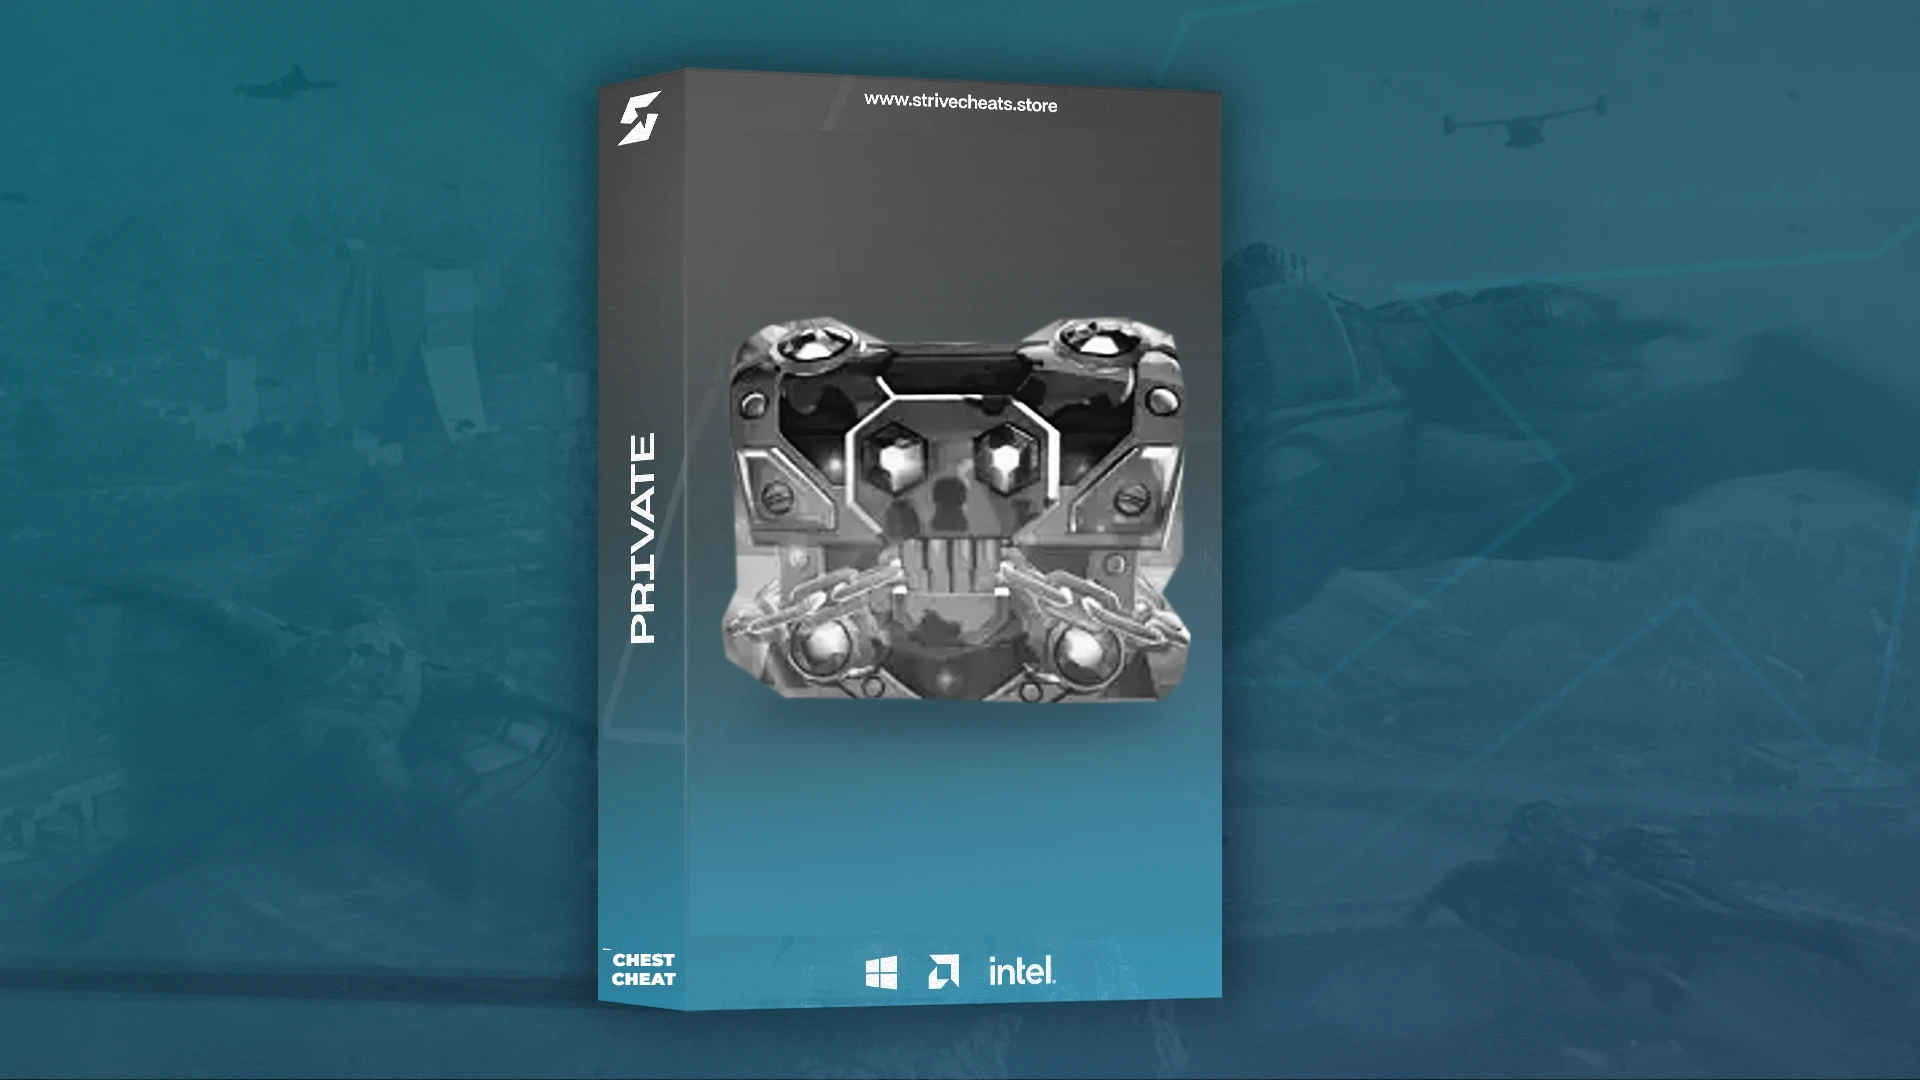
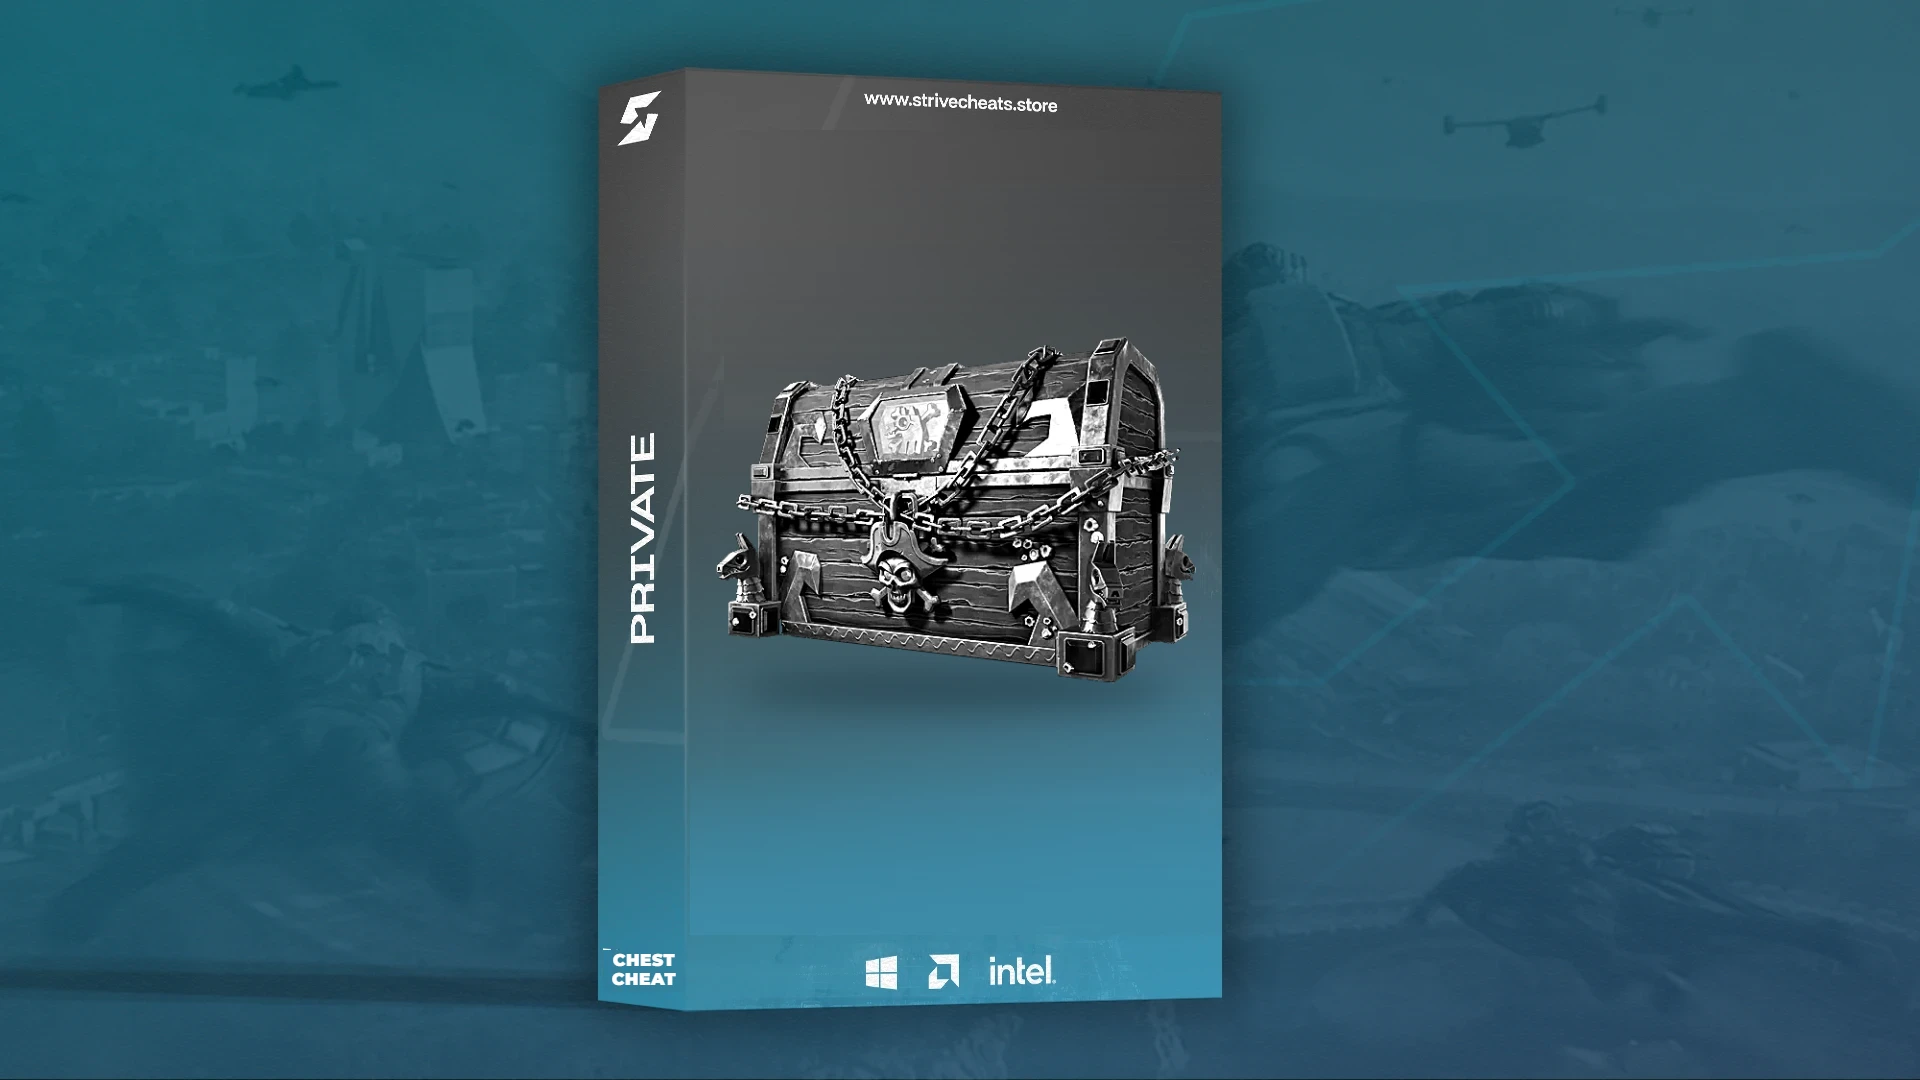
Chest Cheat box: sharper pirate treasure chest from a clean render

Changed region(s): [[0.375, 0.275, 0.625, 0.6722]]

diff --git a/local/boxmaker.html b/local/boxmaker.html
@@ -71,6 +71,18 @@ async function pirateChestCut() {
   const x0 = Math.min(...P.map(p => p[0])) * K, x1 = Math.max(...P.map(p => p[0])) * K, y0 = Math.min(...P.map(p => p[1])) * K, y1 = Math.max(...P.map(p => p[1])) * K;
   const out = mk(x1 - x0, y1 - y0); out.getContext("2d").drawImage(big, x0, y0, out.width, out.height, 0, 0, out.width, out.height); return out;
 }
+// the same chest as a clean 512x512 render on a flat grey backdrop (fortnite.gg): key the backdrop out by flood-filling the neutral grey
+// in from the edges (the chest itself is purple and gold, so the fill can't get in), then crop to the chest
+async function pirateChestHD() {
+  const im = await load("/local/src/dl-bg/pirate-chest-hd.webp"), W0 = im.width, H0 = im.height, c = mk(W0, H0), x = c.getContext("2d", { willReadFrequently: true }); x.drawImage(im, 0, 0);
+  const id = x.getImageData(0, 0, W0, H0), d = id.data, N = W0 * H0, seen = new Uint8Array(N), bg = [d[0], d[1], d[2]];
+  const near = i => { const r = d[i * 4], g = d[i * 4 + 1], b = d[i * 4 + 2], mx = Math.max(r, g, b), mn = Math.min(r, g, b); return mx - mn < 26 && Math.abs(r - bg[0]) < 70; };
+  const q = []; for (let X = 0; X < W0; X++) { q.push(X, N - W0 + X); } for (let Y = 0; Y < H0; Y++) { q.push(Y * W0, Y * W0 + W0 - 1); }
+  while (q.length) { const i = q.pop(); if (seen[i] || !near(i)) continue; seen[i] = 1; d[i * 4 + 3] = 0; const X = i % W0; if (X > 0) q.push(i - 1); if (X < W0 - 1) q.push(i + 1); if (i >= W0) q.push(i - W0); if (i < N - W0) q.push(i + W0); }
+  x.putImageData(id, 0, 0);
+  let x0 = W0, x1 = 0, y0 = H0, y1 = 0; for (let i = 0; i < N; i++) if (d[i * 4 + 3] > 40) { const X = i % W0, Y = (i / W0) | 0; if (X < x0) x0 = X; if (X > x1) x1 = X; if (Y < y0) y0 = Y; if (Y > y1) y1 = Y; }
+  const out = mk(x1 - x0 + 1, y1 - y0 + 1); out.getContext("2d").drawImage(c, x0, y0, out.width, out.height, 0, 0, out.width, out.height); return out;
+}
 async function chestCut() {
   const img = await load("/local/src/dl-bg/chest-b.webp"), t = mk(img.naturalWidth, img.naturalHeight), tx = t.getContext("2d", { willReadFrequently: true }); tx.drawImage(img, 0, 0);
   const td = tx.getImageData(0, 0, t.width, t.height).data; let x0 = t.width, x1 = 0, y0 = t.height, y1 = 0;
@@ -125,7 +137,7 @@ async function makeBox(j) {
   lines.forEach((ln, i) => x.fillText(ln, 644, (lines.length > 1 ? 966 : 972) + i * 19));   // centred on the spine, near its bottom
   return c;
 }const JOBS = [
-  { out: "box-chest-cheat.webp", art: "/local/cards/bg-fortnite.webp", spine: "PRIVATE", tag: "CHEST|CHEAT", subject: pirateChestCut, sharpen: "soft", maxW: 470, maxH: 420, dy: -25 },
+  { out: "box-chest-cheat.webp", art: "/local/cards/bg-fortnite.webp", spine: "PRIVATE", tag: "CHEST|CHEAT", subject: pirateChestHD, sharpen: true, maxW: 480, maxH: 420, dy: -25 },
   { out: "box-rob-run.webp", art: "/local/src/dl-bg/robrun-shot2.jpg", spine: "PRIVATE", tag: "ROB|RUN", sharpen: true, clone: [1066, 618, 70, 70, 1066, 538], subject: copCut, maxW: 530, maxH: 800, bottom: true }
 ];
 (async () => {
